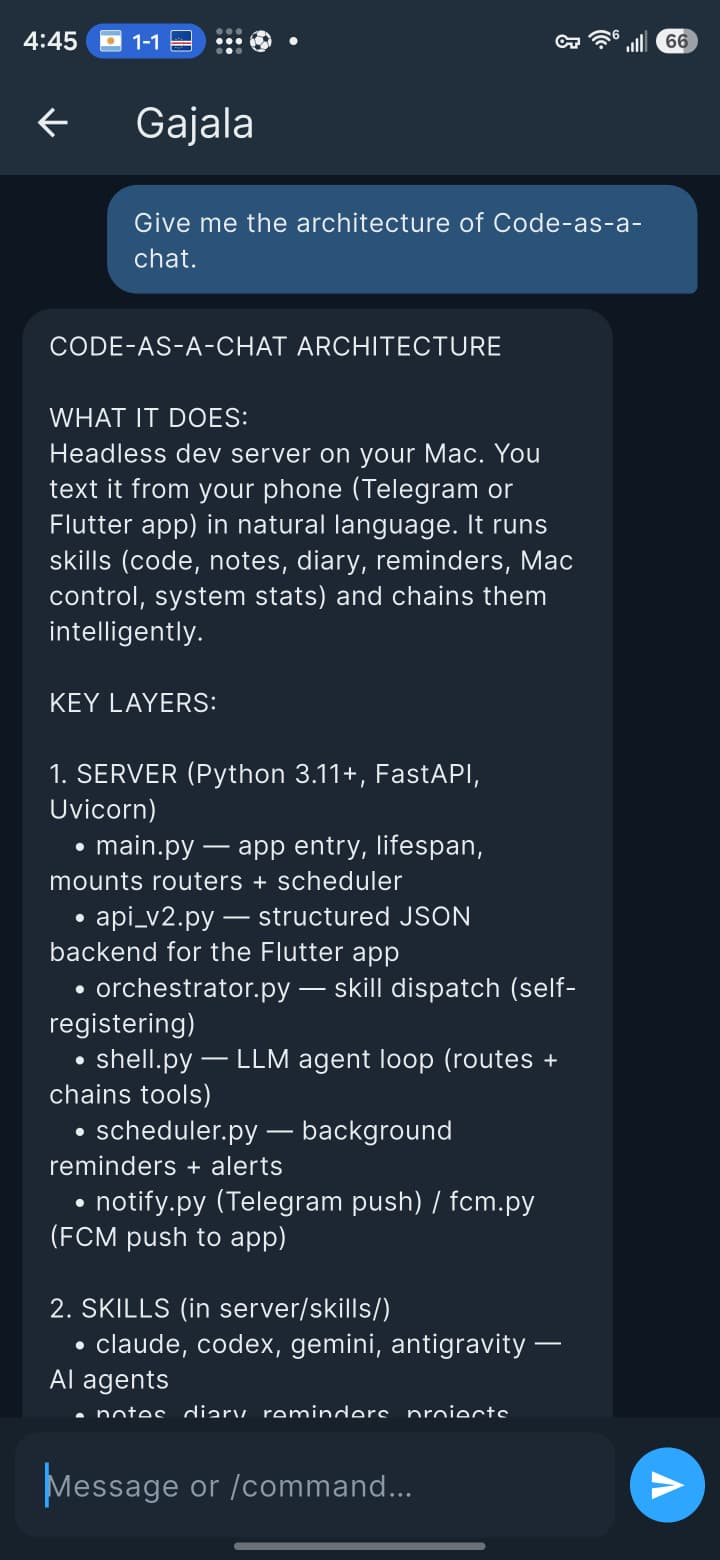
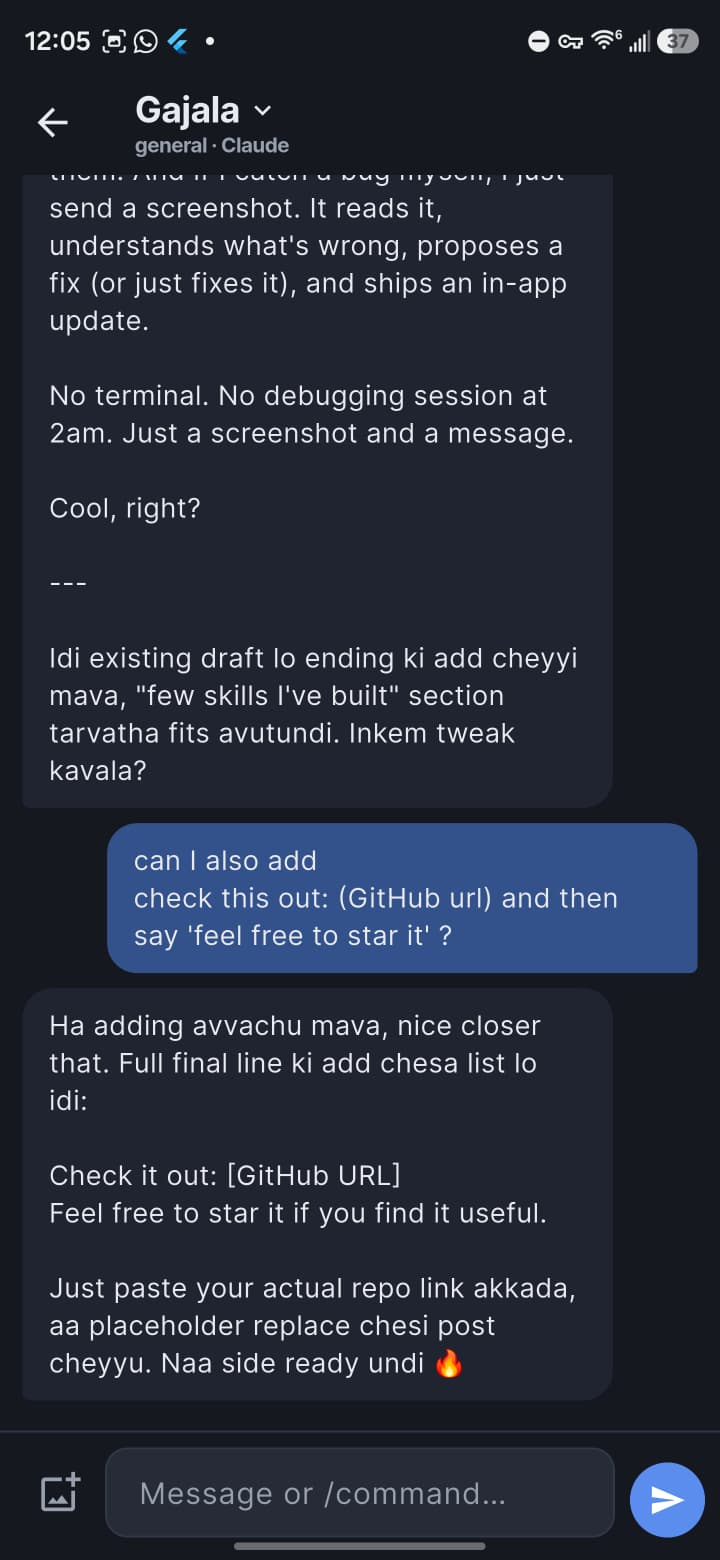
Update Code-as-a-Chat screenshots
Replaces the screenshot set with newer captures. There is no Codaur screen in
the new set, so that slot becomes the skills list, which shows the "drop a file
to add a skill" claim more directly anyway.

- dashboard.jpg, chat.jpg replaced
- codaur.jpg, mac.jpg -> skills.jpg, system.jpg with reworked captions

diff --git a/src/themes/builders-mela/feedbackProjects.js b/src/themes/builders-mela/feedbackProjects.js
@@ -50,8 +50,11 @@ export const feedbackProjects = [
     screenshots: [
       { src: "/projects/code-as-a-chat/dashboard.jpg", label: "Dashboard" },
       { src: "/projects/code-as-a-chat/chat.jpg", label: "Chat with Gajala" },
-      { src: "/projects/code-as-a-chat/codaur.jpg", label: "Codaur — live usage" },
-      { src: "/projects/code-as-a-chat/mac.jpg", label: "Mac control" },
+      {
+        src: "/projects/code-as-a-chat/skills.jpg",
+        label: "Skills — drop a file to add one",
+      },
+      { src: "/projects/code-as-a-chat/system.jpg", label: "Live Mac control" },
     ],
     links: {
       github: "",
